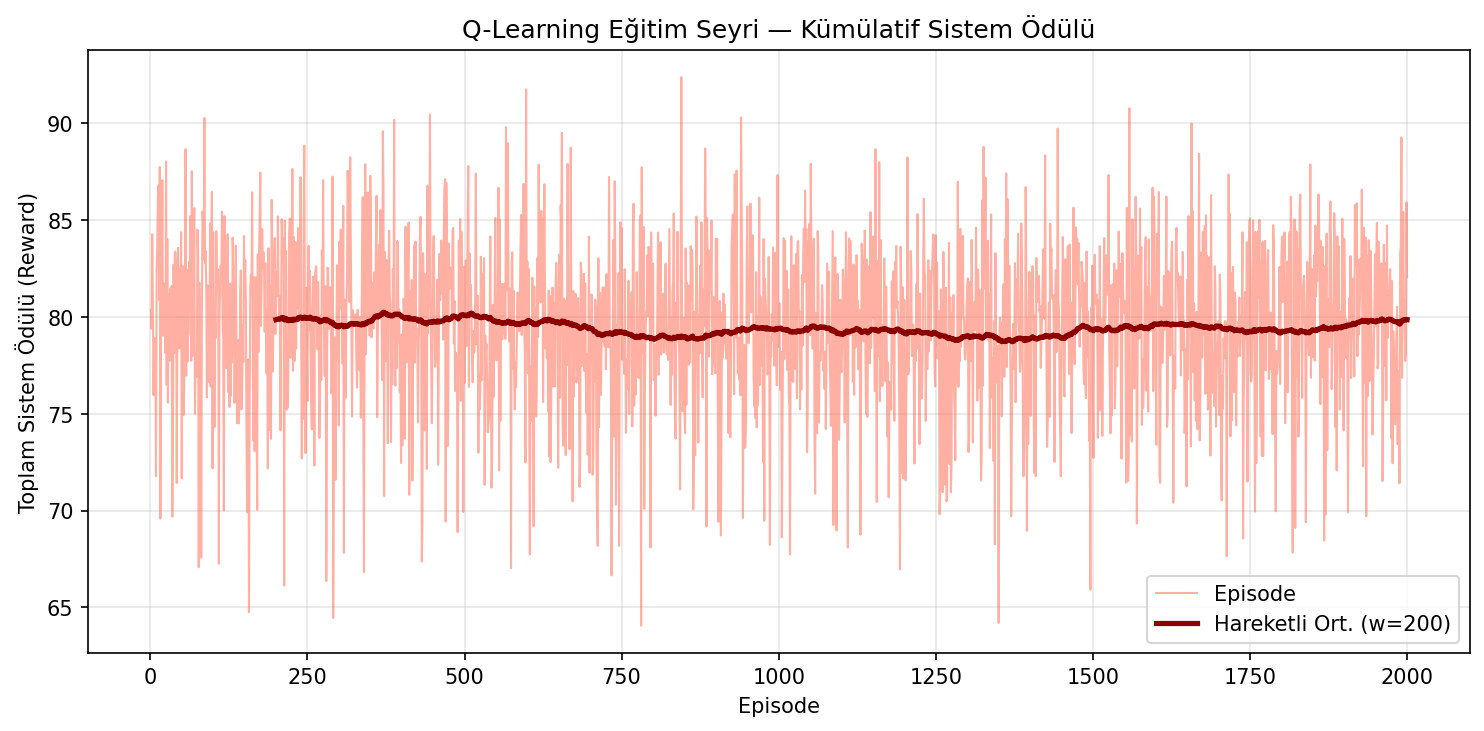
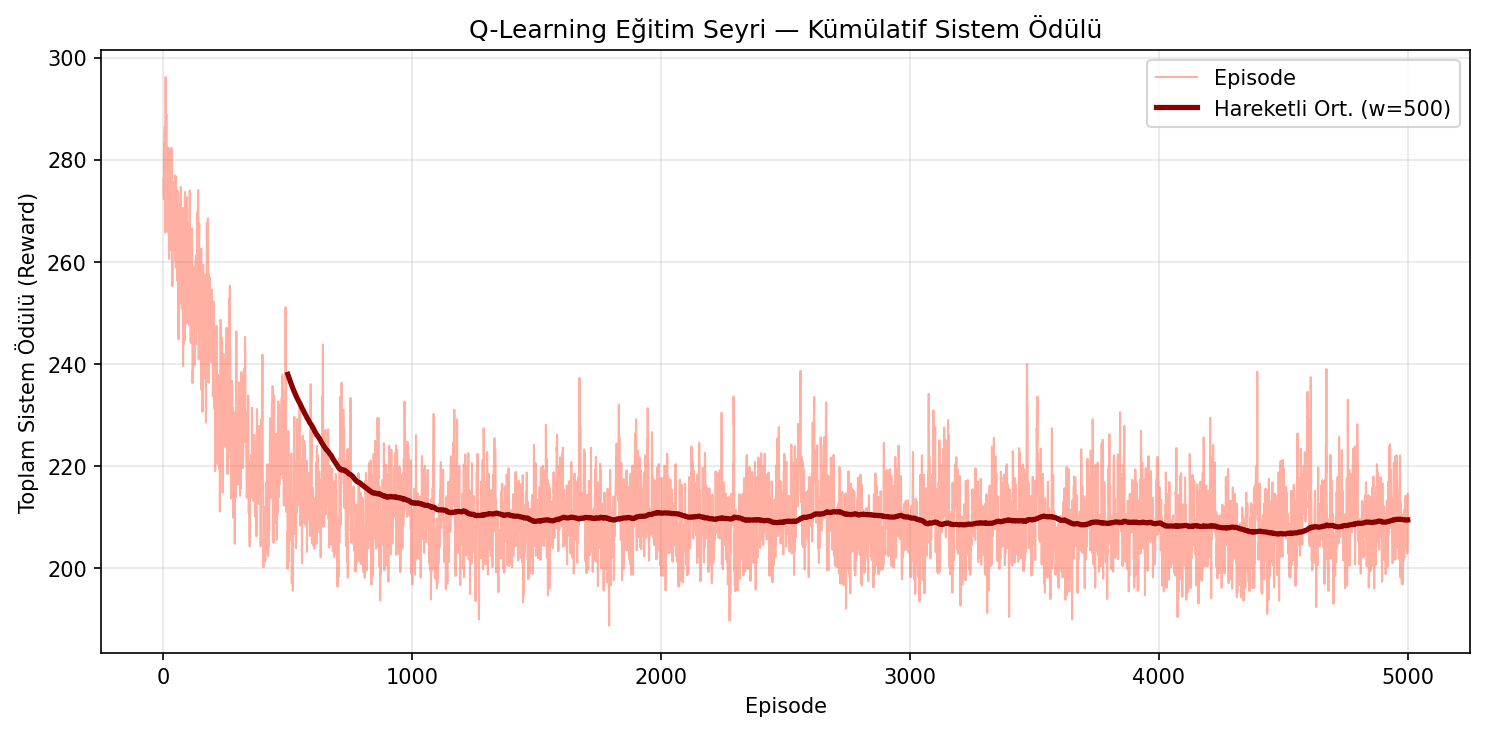
Overall implemantasyon : python3 -m src.comparison --episodes 5000 --nn_episodes 5000 --beta 1.5 --curtail-rate 0.0

diff --git a/src/ql_agent.py b/src/ql_agent.py
@@ -65,9 +65,22 @@ def _pv_bucket(surplus_kwh: float) -> int:
     return int(np.clip(np.searchsorted(PV_EDGES, surplus_kwh, side="right") - 1, 0, len(PV_EDGES) - 2))
 
 
-N_HOUR_BUCKETS = 3   # ToU dönemi sayısı
-N_PV_BUCKETS   = 4   # PV seviye sayısı
-# Toplam durum sayısı: 3 × 4 = 12
+# Alıcı talep seviyeleri: 4 kova (satıcının pv_bucket'ıyla simetrik)
+DEMAND_EDGES = np.array([0.0, 1.0, 3.0, 6.0, 20.0])  # 4 bin: [0,1), [1,3), [3,6), [6,+)
+
+def _demand_bucket(deficit_kwh: float) -> int:
+    """
+    Alıcı talebi (kWh) değerini 4 kovaya ayırır.
+    deficit_kwh = inflexible_load when net_load > 0
+    """
+    return int(np.clip(np.searchsorted(DEMAND_EDGES, deficit_kwh, side="right") - 1, 0, len(DEMAND_EDGES) - 2))
+
+
+N_HOUR_BUCKETS   = 3   # ToU dönemi sayısı
+N_PV_BUCKETS     = 4   # PV seviye sayısı (satıcı)
+N_DEMAND_BUCKETS = 4   # Talep seviye sayısı (alıcı)
+# Satıcı toplam durum sayısı: 3 × 4 = 12
+# Alıcı toplam durum sayısı : 3 × 4 = 12
 
 # ---------------------------------------------------------------------------
 # Action space — FiT ile ToU arasında ayrık fiyat seviyeleri
@@ -122,16 +135,22 @@ class QLearningAgent(EnergyAgent):
         self.fit_price: float = config.fit_price
         self.tou_price: float = config.tou_price
 
-        # Q-table: shape (N_HOUR_BUCKETS, N_PV_BUCKETS, N_ACTIONS)
-        # Başlangıçta sıfır; optimistik başlangıç gerekmiyor (reward pozitif)
+        # Satıcı Q-tablosu: shape (N_HOUR_BUCKETS, N_PV_BUCKETS, N_ACTIONS)
         self.q_table: np.ndarray = np.zeros(
             (N_HOUR_BUCKETS, N_PV_BUCKETS, N_ACTIONS), dtype=np.float64
+        )
+
+        # Alıcı Q-tablosu: shape (N_HOUR_BUCKETS, N_DEMAND_BUCKETS, N_ACTIONS)
+        # Aksiyonlar: FiT–ToU arasında N_ACTIONS düzey (satıcıyla simetrik)
+        self.buy_q_table: np.ndarray = np.zeros(
+            (N_HOUR_BUCKETS, N_DEMAND_BUCKETS, N_ACTIONS), dtype=np.float64
         )
 
         # Tek adım geçiş belleği
         self._prev_state: Optional[Tuple[int, int]] = None
         self._prev_action_idx: Optional[int] = None
         self._prev_obs: Optional[Observation] = None
+        self._prev_role: Optional[str] = None  # "sell" veya "buy"
 
         # Episode istatistikleri
         self.episode_rewards: list[float] = []
@@ -142,24 +161,40 @@ class QLearningAgent(EnergyAgent):
     # ------------------------------------------------------------------
 
     def _encode_state(self, obs: Observation) -> Tuple[int, int]:
-        """Sürekli gözlemi (saat_bucket, pv_bucket) çiftine dönüştürür."""
+        """Satıcı: (saat_bucket, pv_bucket)"""
         s0 = _hour_bucket(obs.hour)
-        surplus = max(0.0, -obs.inflexible_load)   # net_load < 0 → PV fazlası
+        surplus = max(0.0, -obs.inflexible_load)
         s1 = _pv_bucket(surplus)
+        return s0, s1
+
+    def _encode_buyer_state(self, obs: Observation) -> Tuple[int, int]:
+        """Alıcı: (saat_bucket, demand_bucket)"""
+        s0 = _hour_bucket(obs.hour)
+        deficit = max(0.0, obs.inflexible_load)
+        s1 = _demand_bucket(deficit)
         return s0, s1
 
     # ------------------------------------------------------------------
     # Policy
     # ------------------------------------------------------------------
 
-    def _select_action(self, state: Tuple[int, int]) -> int:
-        """ε-greedy aksiyon seçimi."""
+    def _select_action_from_table(self, state: Tuple[int, int], q_table: np.ndarray) -> int:
+        """ε-greedy aksiyon seçimi — belirtilen Q-tablosundan."""
         if np.random.random() < self.epsilon:
             return np.random.randint(N_ACTIONS)
-        return int(np.argmax(self.q_table[state]))
+        return int(np.argmax(q_table[state]))
+
+    def _select_action(self, state: Tuple[int, int]) -> int:
+        """Satıcı Q-tablosu için ε-greedy aksiyon seçimi (geriye dönük uyumluluk)."""
+        return self._select_action_from_table(state, self.q_table)
 
     def _ask_price_from_action(self, action_idx: int) -> float:
         """Aksiyon indeksini $/kWh satış fiyatına çevirir."""
+        prices = _action_prices(self.fit_price, self.tou_price)
+        return float(prices[action_idx])
+
+    def _bid_price_from_action(self, action_idx: int) -> float:
+        """Aksiyon indeksini $/kWh alım fiyatına çevirir (satıcıyla aynı aralık: FiT–ToU)."""
         prices = _action_prices(self.fit_price, self.tou_price)
         return float(prices[action_idx])
 
@@ -168,22 +203,22 @@ class QLearningAgent(EnergyAgent):
     # ------------------------------------------------------------------
 
     def decide_action(self, obs: Observation) -> Action:
-        """Q-tablosu kullanarak ε-greedy aksiyon seç."""
+        """Satıcı ve alıcı için Q-tablosu kullanarak ε-greedy aksiyon seç."""
         self._current_hour = obs.hour
-        state = self._encode_state(obs)
-        action_idx = self._select_action(state)
-
-        # Geçiş belleğine kaydet (Q-update için)
-        self._prev_state = state
-        self._prev_action_idx = action_idx
-        self._prev_obs = obs
-
         net = obs.inflexible_load
         order = None
 
         if net > 0.01:
-            # ALICI: Öğrenme yok — ham MB eğrisi fiyatı kullanılır (Faz 1 mantığı)
-            bid_price = self.compute_mb(net, hour=obs.hour)
+            # ALICI: Alıcı Q-tablosundan flat bid fiyatı seç
+            buyer_state = self._encode_buyer_state(obs)
+            buy_action_idx = self._select_action_from_table(buyer_state, self.buy_q_table)
+            bid_price = self._bid_price_from_action(buy_action_idx)
+
+            self._prev_state = buyer_state
+            self._prev_action_idx = buy_action_idx
+            self._prev_obs = obs
+            self._prev_role = "buy"
+
             order = Order(
                 agent_id=self.agent_id,
                 price=float(np.clip(bid_price, 0.001, 2.0)),
@@ -192,8 +227,16 @@ class QLearningAgent(EnergyAgent):
                 is_emergency=False,
             )
         elif net < -0.01:
-            # SATICI: Q-tablosundan gelen fiyat seviyesini kullan
-            ask_price = self._ask_price_from_action(action_idx)
+            # SATICI: Satıcı Q-tablosundan flat ask fiyatı seç
+            seller_state = self._encode_state(obs)
+            sell_action_idx = self._select_action_from_table(seller_state, self.q_table)
+            ask_price = self._ask_price_from_action(sell_action_idx)
+
+            self._prev_state = seller_state
+            self._prev_action_idx = sell_action_idx
+            self._prev_obs = obs
+            self._prev_role = "sell"
+
             order = Order(
                 agent_id=self.agent_id,
                 price=float(np.clip(ask_price, 0.001, 2.0)),
@@ -206,37 +249,50 @@ class QLearningAgent(EnergyAgent):
 
     def update_q(self, reward: float, next_obs: Optional[Observation]):
         """
-        Q-öğrenme güncellemesi — reward gözlemlendikten sonra çağrılır.
+        Q-öğrenme güncellemesi — her iki rol için (satıcı ve alıcı).
 
-        Faz 2 reward formülü:
-            reward = matched_qty × clearing_price + unmatched_qty × FiT
-        Bu hesaplama environment.py'de process_trade_results + get_reward
-        üzerinden gelir; burada sadece Q-update yapılır.
+        Satıcı reward : matched_qty × clearing_price + unmatched_qty × FiT
+        Alıcı reward  : -net_cost  (maliyet minimize)
 
-        Sadece satıcı konumundayken (net_load < 0) tabloyu günceller.
+        Sonraki adımın rolü next_obs.inflexible_load'a göre belirlenir;
+        bootstrap değeri ilgili Q-tablosundan alınır (satıcı ↔ buy_q_table).
         """
-        if self._prev_state is None or self._prev_action_idx is None or self._prev_obs is None:
-            return
-
-        # Sadece satıcıyken öğren (Faz 2: "satıcı öğrenir")
-        if self._prev_obs.inflexible_load > 0:
+        if (
+            self._prev_state is None
+            or self._prev_action_idx is None
+            or self._prev_obs is None
+            or self._prev_role is None
+        ):
             return
 
         s = self._prev_state
         a = self._prev_action_idx
 
-        # Sonraki durum için bootstrap
+        # Hangi Q-tabloyu güncelleyeceğimizi belirle
+        if self._prev_role == "sell":
+            q_table = self.q_table
+        else:
+            q_table = self.buy_q_table
+
+        # Sonraki durum için bootstrap — next_obs'un rolüne göre doğru tabloyu kullan
         if next_obs is not None:
-            s_next = self._encode_state(next_obs)
-            max_q_next = float(np.max(self.q_table[s_next]))
+            next_net = next_obs.inflexible_load
+            if next_net < -0.01:
+                s_next = self._encode_state(next_obs)
+                max_q_next = float(np.max(self.q_table[s_next]))
+            elif next_net > 0.01:
+                s_next = self._encode_buyer_state(next_obs)
+                max_q_next = float(np.max(self.buy_q_table[s_next]))
+            else:
+                max_q_next = 0.0
         else:
             max_q_next = 0.0
 
         # Q-update: Q(s,a) ← Q(s,a) + α [r + γ·max Q(s',·) − Q(s,a)]
-        current_q  = self.q_table[s][a]
-        td_target  = reward + self.gamma * max_q_next
-        td_error   = td_target - current_q
-        self.q_table[s][a] += self.alpha_lr * td_error
+        current_q = q_table[s][a]
+        td_target = reward + self.gamma * max_q_next
+        td_error  = td_target - current_q
+        q_table[s][a] += self.alpha_lr * td_error
 
         self._episode_reward_acc += reward
 
@@ -250,13 +306,14 @@ class QLearningAgent(EnergyAgent):
         self._prev_state      = None
         self._prev_action_idx = None
         self._prev_obs        = None
+        self._prev_role       = None
 
     # ------------------------------------------------------------------
     # Diagnostics
     # ------------------------------------------------------------------
 
     def q_table_stats(self) -> dict:
-        """Q-tablosu için özet istatistikler döner."""
+        """Satıcı Q-tablosu için özet istatistikler döner."""
         return {
             "mean":    float(np.mean(self.q_table)),
             "std":     float(np.std(self.q_table)),
@@ -265,13 +322,33 @@ class QLearningAgent(EnergyAgent):
             "nonzero": int(np.count_nonzero(self.q_table)),
         }
 
+    def buy_q_table_stats(self) -> dict:
+        """Alıcı Q-tablosu için özet istatistikler döner."""
+        return {
+            "mean":    float(np.mean(self.buy_q_table)),
+            "std":     float(np.std(self.buy_q_table)),
+            "max":     float(np.max(self.buy_q_table)),
+            "min":     float(np.min(self.buy_q_table)),
+            "nonzero": int(np.count_nonzero(self.buy_q_table)),
+        }
+
     def greedy_policy_summary(self) -> np.ndarray:
-        """Her durum için greedy aksiyon indeksini döner (2-D array: saat × PV)."""
+        """Satıcı: Her durum için greedy aksiyon indeksini döner (2-D array: saat × PV)."""
         return np.argmax(self.q_table, axis=-1)
 
+    def greedy_buyer_policy_summary(self) -> np.ndarray:
+        """Alıcı: Her durum için greedy aksiyon indeksini döner (2-D array: saat × demand)."""
+        return np.argmax(self.buy_q_table, axis=-1)
+
     def greedy_policy_prices(self) -> np.ndarray:
-        """Her durum için greedy aksiyonun $/kWh fiyatını döner."""
+        """Satıcı: Her durum için greedy aksiyonun $/kWh fiyatını döner."""
         idx_grid = self.greedy_policy_summary()
+        prices = _action_prices(self.fit_price, self.tou_price)
+        return prices[idx_grid]
+
+    def greedy_buyer_policy_prices(self) -> np.ndarray:
+        """Alıcı: Her durum için greedy aksiyonun $/kWh teklif fiyatını döner."""
+        idx_grid = self.greedy_buyer_policy_summary()
         prices = _action_prices(self.fit_price, self.tou_price)
         return prices[idx_grid]
 

diff --git a/src/comparison.py b/src/comparison.py
@@ -175,9 +175,9 @@ def _print_comparison_3way(
 
     _w()
     _w("+" + "=" * width + "+")
-    _w(f"|{'  3-YOL KARSILASTIRMA: Baseline | Q-Learning | REINFORCE-NN':^{width}}|")
+    _w(f"|{'  3-YOL KARSILASTIRMA: Baseline | QL(Alici+Satici) | NN(Alici+Satici)':^{width}}|")
     _w("+" + "=" * width + "+")
-    _w(f"|  {'Metrik':<26} {'Baseline':>10} {'Q-Learn':>10} {'Deep-RL':>10}  {'ΔQL':>7}  {'ΔNN':>7}  |")
+    _w(f"|  {'Metrik':<26} {'Baseline':>10} {'QL(B+S)':>10} {'NN(B+S)':>10}  {'ΔQL':>7}  {'ΔNN':>7}  |")
     _w(f"|  {'-' * (width - 4)}  |")
     for label, bv, qv, nv, dql, dnn in rows:
         _w(f"|  {label:<26} {bv} {qv} {nv}  {dql}  {dnn}  |")
@@ -198,7 +198,7 @@ def plot_comparison(
     has_nn = nn_metrics is not None
 
     fig, axes = plt.subplots(2, 2, figsize=(14, 10))
-    title = ("3-Yol Karşılaştırma: Baseline | Q-Learning | REINFORCE-NN"
+    title = ("3-Yol Karşılaştırma: Baseline | QL(Alıcı+Satıcı) | NN(Alıcı+Satıcı)"
              if has_nn else "Q-Learning vs Baseline — Karşılaştırma")
     fig.suptitle(title, fontsize=15, fontweight="bold")
 
@@ -473,8 +473,8 @@ if __name__ == "__main__":
         help="Satılamayan enerji ödül oranı (varsayılan: -0.03)",
     )
     parser.add_argument(
-        "--log_name", type=str, default="simulation_results.log",
-        help="Log dosyası adı (varsayılan: simulation_results.log)",
+        "--log_name", type=str, default="overall_summary.txt",
+        help="Log dosyası adı (varsayılan: overall_summary.txt)",
     )
     args = parser.parse_args()
 
@@ -486,10 +486,11 @@ if __name__ == "__main__":
         ts = datetime.now().strftime("%Y-%m-%d %H:%M:%S")
         header = (
             f"\n{'='*84}\n"
-            f"{'P2P ENERGY TRADING — SIMULATION RESULTS':^84}\n"
+            f"{'P2P ENERGY TRADING — OVERALL COMPARISON (Buyer+Seller Learning)':^84}\n"
             f"  Tarih : {ts}\n"
             f"  QL Episodes : {args.episodes}  |  NN Episodes : {args.nn_episodes}\n"
             f"  beta={args.beta:.2f}  |  curtail_rate={args.curtail_rate:.2f}\n"
+            f"  Modeller: Baseline | QL(Alici+Satici) | NN(Alici+Satici)\n"
             f"{'='*84}\n"
         )
         print(header, end="")
